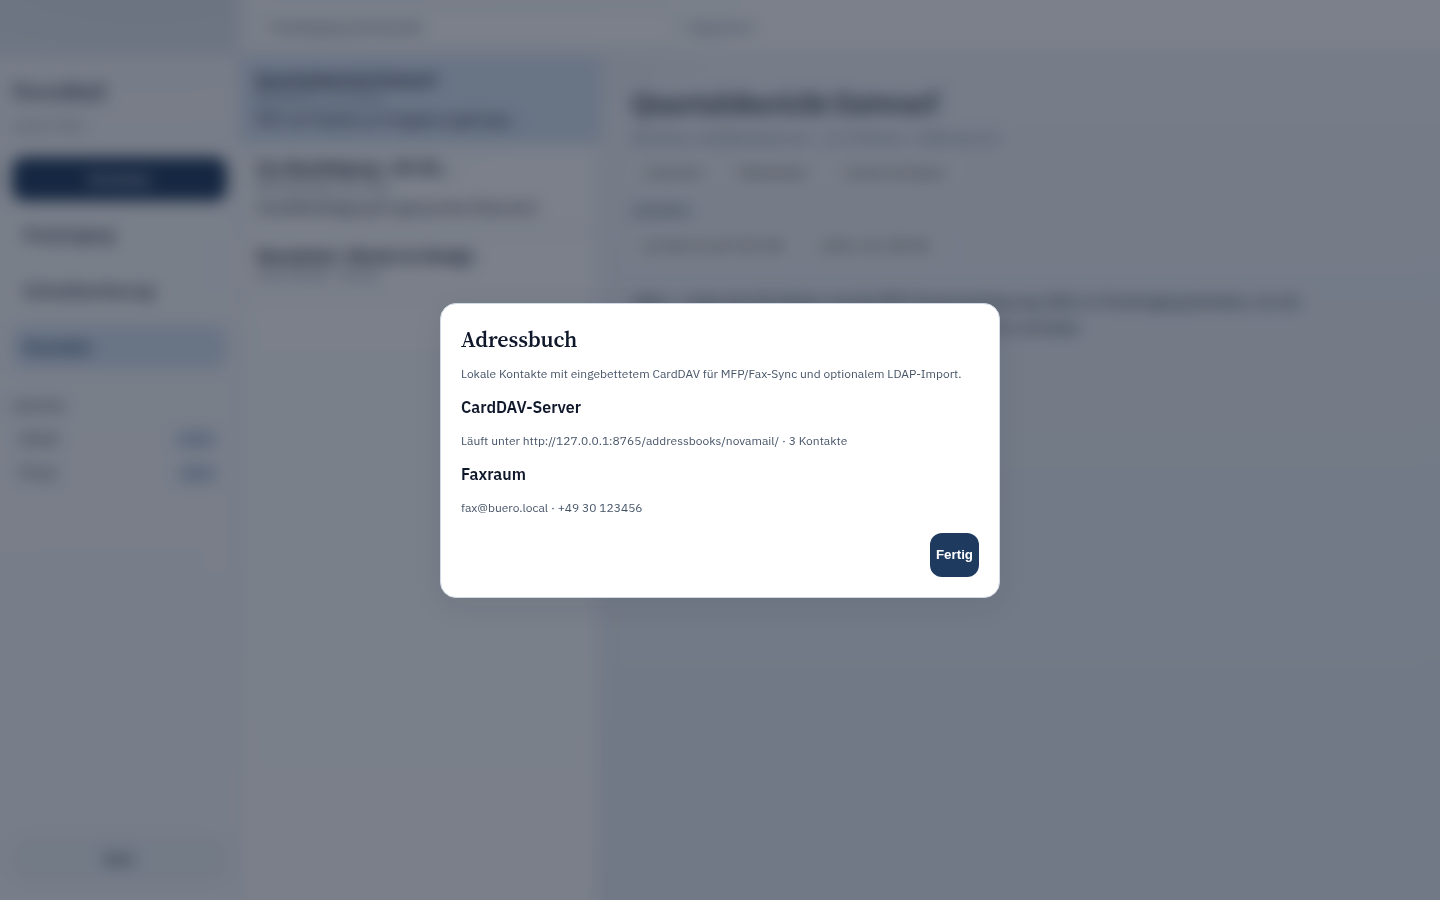
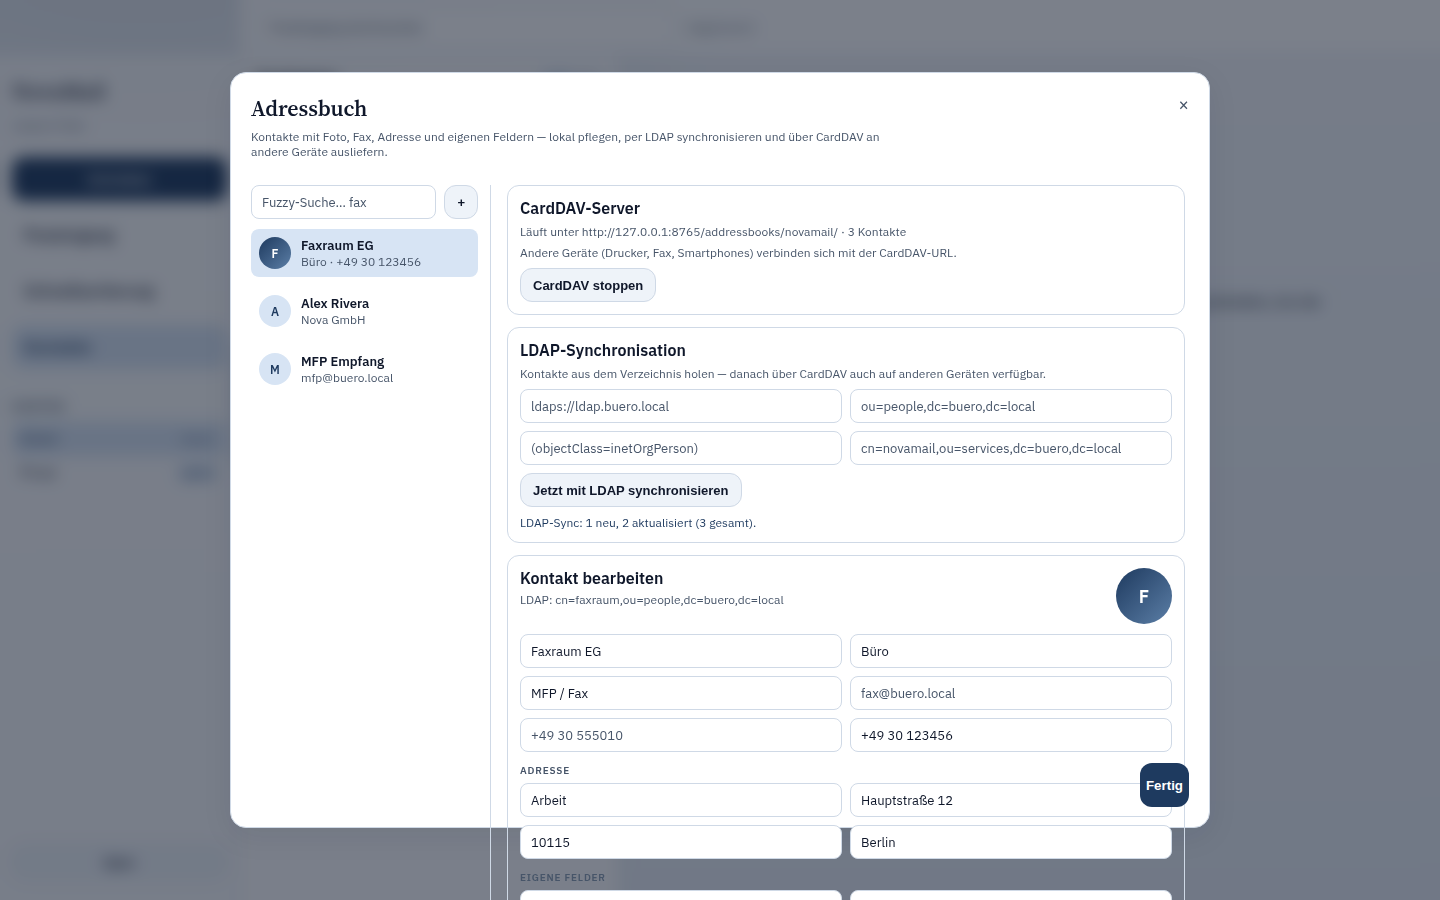
docs: refresh screenshots for threads, filters, and contacts
Update preview captures for threaded inbox with filter/sort controls
and the expanded address book (fuzzy search, fax/address, LDAP+CardDAV).

diff --git a/docs/screenshots/preview.html b/docs/screenshots/preview.html
@@ -15,6 +15,7 @@
         --nova-bg: #f4f7fb;
         --nova-bg-accent: #e8eef6;
         --nova-surface: #ffffff;
+        --nova-surface-2: #eef3f9;
         --nova-ink: #0f172a;
         --nova-ink-muted: #475569;
         --nova-border: #cfd9e6;
@@ -71,13 +72,63 @@
       }
       .main { flex: 1; display: flex; min-width: 0; }
       .list {
-        width: 360px; border-right: 1px solid var(--nova-border);
+        width: 380px; border-right: 1px solid var(--nova-border);
         background: color-mix(in srgb, var(--nova-surface) 88%, transparent);
+        display: flex; flex-direction: column;
       }
+      .list-head {
+        padding: 12px 16px;
+        border-bottom: 1px solid var(--nova-border);
+        display: flex; flex-direction: column; gap: 10px;
+      }
+      .list-title { display: flex; justify-content: space-between; align-items: center; }
+      .chips { display: flex; flex-wrap: wrap; gap: 6px; }
+      .fchip {
+        border: 1px solid var(--nova-border);
+        border-radius: var(--nova-radius-sm);
+        padding: 4px 8px; font-size: 12px; font-weight: 500;
+        color: var(--nova-ink-muted); background: var(--nova-surface);
+      }
+      .fchip.on {
+        border-color: var(--nova-accent);
+        background: var(--nova-accent-soft);
+        color: var(--nova-accent);
+      }
+      .filters {
+        display: grid; grid-template-columns: 1fr 1fr; gap: 8px;
+      }
+      .filters label { display: grid; gap: 4px; font-size: 10px; font-weight: 600; letter-spacing: .08em; text-transform: uppercase; color: var(--nova-ink-muted); }
+      .filters select {
+        height: 30px; border-radius: var(--nova-radius-sm);
+        border: 1px solid var(--nova-border); background: var(--nova-surface); padding: 0 8px; font-size: 12px;
+      }
+      .view-toggle {
+        display: flex; gap: 2px; padding: 2px; border-radius: var(--nova-radius-sm);
+        background: var(--nova-surface-2);
+      }
+      .view-toggle span {
+        width: 28px; height: 28px; display: grid; place-items: center;
+        border-radius: 6px; font-size: 12px; color: var(--nova-ink-muted);
+      }
+      .view-toggle span.on { background: var(--nova-accent-soft); color: var(--nova-accent); font-weight: 700; }
       .list-item {
-        padding: 14px 16px; border-bottom: 1px solid var(--nova-border);
+        padding: 12px 14px; border-bottom: 1px solid var(--nova-border);
+      }
+      .list-item.thread {
+        background: color-mix(in srgb, var(--nova-accent-soft) 35%, transparent);
+      }
+      .list-item.child {
+        padding-left: 32px;
+        border-left: 2px solid var(--nova-accent);
+        background: color-mix(in srgb, var(--nova-surface-2) 55%, transparent);
       }
       .list-item.active { background: var(--nova-accent-soft); }
+      .row { display: flex; align-items: center; gap: 6px; }
+      .count {
+        margin-left: auto; font-size: 10px; font-weight: 600;
+        background: var(--nova-surface-2); color: var(--nova-ink-muted);
+        border-radius: 999px; padding: 2px 7px;
+      }
       .reading { flex: 1; padding: 28px 32px; }
       .h2 { font-family: var(--nova-font-display); font-size: 28px; margin: 0 0 8px; }
       .chip {
@@ -92,13 +143,55 @@
       }
       .overlay.show { display: flex; }
       .card {
-        width: min(720px, 100%);
+        width: min(980px, 100%);
         background: var(--nova-surface);
         border: 1px solid var(--nova-border);
         border-radius: var(--nova-radius-lg);
         box-shadow: var(--nova-shadow);
         padding: 20px;
       }
+      .contacts-grid {
+        display: grid;
+        grid-template-columns: 240px minmax(0, 1fr);
+        gap: 16px;
+        margin-top: 14px;
+        max-height: 560px;
+      }
+      .contacts-side {
+        border-right: 1px solid var(--nova-border);
+        padding-right: 12px;
+        display: flex; flex-direction: column; gap: 10px;
+      }
+      .contact-row {
+        display: flex; gap: 10px; align-items: center;
+        padding: 8px; border-radius: var(--nova-radius-sm);
+      }
+      .contact-row.active { background: var(--nova-accent-soft); }
+      .avatar {
+        width: 32px; height: 32px; border-radius: 999px;
+        background: var(--nova-accent-soft); color: var(--nova-accent);
+        display: grid; place-items: center; font-size: 12px; font-weight: 700; flex-shrink: 0;
+      }
+      .avatar.photo {
+        background:
+          linear-gradient(135deg, #1e3a5f, #5b7ea6);
+        color: #fff;
+      }
+      .panel {
+        border: 1px solid var(--nova-border);
+        border-radius: var(--nova-radius-md);
+        padding: 12px;
+        margin-bottom: 12px;
+      }
+      .form-grid {
+        display: grid; grid-template-columns: 1fr 1fr; gap: 8px;
+      }
+      .field {
+        height: 34px; border: 1px solid var(--nova-border); border-radius: var(--nova-radius-sm);
+        padding: 0 10px; background: var(--nova-surface); color: var(--nova-ink); font-size: 13px;
+        display: flex; align-items: center;
+      }
+      .field.muted { color: var(--nova-ink-muted); }
       .triage-shell {
         width: min(760px, 100%);
         overflow: hidden;
@@ -158,8 +251,9 @@
       }
       .btn.secondary .kbd { border-color: var(--nova-border); background: var(--nova-surface); color: var(--nova-ink-muted); }
       .actions { display: flex; gap: 8px; justify-content: flex-end; margin-top: 18px; flex-wrap: wrap; }
-      .btn.secondary { background: var(--nova-surface-2, #eef3f9); color: var(--nova-ink); border: 1px solid var(--nova-border); padding: 0 14px; }
+      .btn.secondary { background: var(--nova-surface-2); color: var(--nova-ink); border: 1px solid var(--nova-border); padding: 0 14px; height: 36px; }
       .btn.danger { background: var(--nova-danger); }
+      .btn.sm { height: 34px; padding: 0 12px; font-size: 13px; }
       .topbar {
         position: absolute; left: 240px; right: 0; top: 0; height: 56px;
         border-bottom: 1px solid var(--nova-border);
@@ -171,7 +265,8 @@
         border: 1px solid var(--nova-border); padding: 0 12px; background: var(--nova-surface);
         color: var(--nova-ink-muted);
       }
-      .account { display: flex; justify-content: space-between; padding: 8px; font-size: 14px; }
+      .account { display: flex; justify-content: space-between; padding: 8px; font-size: 14px; border-radius: var(--nova-radius-sm); }
+      .account.active { background: var(--nova-accent-soft); color: var(--nova-accent); }
       .badge { font-size: 11px; background: var(--nova-accent-soft); color: var(--nova-accent); padding: 2px 8px; border-radius: 999px; }
     </style>
   </head>
@@ -192,7 +287,7 @@
         <div class="nav" id="nav-contacts">Kontakte</div>
         <div style="margin-top:18px">
           <p class="muted" style="margin:0 0 8px; text-transform:uppercase; letter-spacing:.08em; font-weight:600">Konten</p>
-          <div class="account"><span>Arbeit</span><span class="badge">icloud</span></div>
+          <div class="account active"><span>Arbeit</span><span class="badge">icloud</span></div>
           <div class="account"><span>Privat</span><span class="badge">gmail</span></div>
         </div>
         <div style="margin-top:auto">
@@ -201,19 +296,69 @@
       </aside>
       <div class="main">
         <div class="list">
-          <div class="list-item active">
-            <strong>Quartalsbericht Entwurf</strong>
-            <div class="muted">Alex Rivera · vor 12 Min.</div>
-            <div style="margin-top:6px;font-size:14px">PDF und Tabelle zur Freigabe angehängt…</div>
+          <div class="list-head">
+            <div class="list-title">
+              <div>
+                <strong style="font-size:14px">Posteingang</strong>
+                <div class="muted">8 Unterhaltungen</div>
+              </div>
+              <div class="view-toggle" title="Verlauf / Liste">
+                <span class="on">≡</span>
+                <span>☰</span>
+              </div>
+            </div>
+            <div class="chips">
+              <span class="fchip on">Ungelesen</span>
+              <span class="fchip">Favoriten</span>
+              <span class="fchip on">Mit Anhang</span>
+            </div>
+            <div class="filters">
+              <label>Postfach
+                <select><option>INBOX</option><option>Alle Postfächer</option></select>
+              </label>
+              <label>Konto
+                <select><option>Arbeit</option><option>Alle Konten</option></select>
+              </label>
+              <label>Sortieren
+                <select><option>Datum</option><option>Betreff</option><option>Absender</option></select>
+              </label>
+              <label>Reihenfolge
+                <select><option>Neueste zuerst</option><option>Älteste zuerst</option></select>
+              </label>
+            </div>
           </div>
-          <div class="list-item">
-            <strong>Fax-Bestätigung: +49 30…</strong>
-            <div class="muted">MFP Empfang · vor 1 Std.</div>
-            <div style="margin-top:6px;font-size:14px">Zustellbestätigung für gescanntes Dokument</div>
+          <div class="list-item thread">
+            <div class="row">
+              <span class="muted">▾</span>
+              <strong style="font-size:14px">Alex Rivera</strong>
+              <span class="count">3</span>
+              <span class="muted" style="margin-left:4px">12 Min.</span>
+            </div>
+            <div style="padding-left:18px;margin-top:4px;font-size:14px">Quartalsbericht Entwurf · <span style="color:var(--nova-accent);font-size:11px;font-weight:600">2 neu</span></div>
+            <div class="muted" style="padding-left:18px;margin-top:2px">PDF und Tabelle zur Freigabe angehängt…</div>
           </div>
-          <div class="list-item">
-            <strong>Newsletter: Woche im Design</strong>
-            <div class="muted">Inbox Weekly · Gestern</div>
+          <div class="list-item child active">
+            <div class="row">
+              <strong style="font-size:13px">Alex Rivera</strong>
+              <span class="muted" style="margin-left:auto">12 Min.</span>
+            </div>
+            <div class="muted" style="margin-top:2px;font-size:13px">PDF und Tabelle zur Freigabe angehängt… 📎</div>
+          </div>
+          <div class="list-item child">
+            <div class="row">
+              <span style="font-size:13px;font-weight:500">Alex Rivera</span>
+              <span class="muted" style="margin-left:auto">gestern</span>
+            </div>
+            <div class="muted" style="margin-top:2px;font-size:13px">Erste Fassung der Zahlen…</div>
+          </div>
+          <div class="list-item thread">
+            <div class="row">
+              <span class="muted">▸</span>
+              <strong style="font-size:14px">MFP Empfang</strong>
+              <span class="count">1</span>
+              <span class="muted" style="margin-left:4px">1 Std.</span>
+            </div>
+            <div style="padding-left:18px;margin-top:4px;font-size:14px">Fax-Bestätigung: +49 30… 📎</div>
           </div>
         </div>
         <article class="reading">
@@ -231,7 +376,7 @@
           </div>
           <p style="margin-top:28px; max-width:720px; line-height:1.7; font-size:15px">
             Hallo — anbei die Q3-Zahlen und die PDF-Zusammenfassung. Bitte im Posteingang
-            behalten, bis die Freigabe da ist. Mit der Schnellsortierung (Taste T) geht’s schneller.
+            behalten, bis die Freigabe da ist. Verläufe, Filter und Sortierung findest du links in der Liste.
           </p>
         </article>
       </div>
@@ -278,13 +423,113 @@
     </div>
 
     <div class="overlay" id="contacts">
-      <div class="card" style="max-width:560px">
-        <h2 class="h2" style="font-size:22px">Adressbuch</h2>
-        <p class="muted">Lokale Kontakte mit eingebettetem CardDAV für MFP/Fax-Sync und optionalem LDAP-Import.</p>
-        <p style="margin-top:16px"><strong>CardDAV-Server</strong></p>
-        <p class="muted">Läuft unter http://127.0.0.1:8765/addressbooks/novamail/ · 3 Kontakte</p>
-        <p style="margin-top:16px"><strong>Faxraum</strong></p>
-        <p class="muted">fax@buero.local · +49 30 123456</p>
+      <div class="card">
+        <div style="display:flex;justify-content:space-between;gap:16px;align-items:flex-start">
+          <div>
+            <h2 class="h2" style="font-size:22px;margin:0">Adressbuch</h2>
+            <p class="muted" style="margin-top:6px;max-width:640px">
+              Kontakte mit Foto, Fax, Adresse und eigenen Feldern — lokal pflegen, per LDAP synchronisieren
+              und über CardDAV an andere Geräte ausliefern.
+            </p>
+          </div>
+          <span class="muted" style="font-size:18px">×</span>
+        </div>
+
+        <div class="contacts-grid">
+          <aside class="contacts-side">
+            <div style="display:flex;gap:8px">
+              <div class="field muted" style="flex:1">Fuzzy-Suche… fax</div>
+              <button class="btn secondary sm">+</button>
+            </div>
+            <div class="contact-row active">
+              <div class="avatar photo">F</div>
+              <div style="min-width:0">
+                <div style="font-weight:600;font-size:13px">Faxraum EG</div>
+                <div class="muted" style="truncate">Büro · +49 30 123456</div>
+              </div>
+            </div>
+            <div class="contact-row">
+              <div class="avatar">A</div>
+              <div style="min-width:0">
+                <div style="font-weight:600;font-size:13px">Alex Rivera</div>
+                <div class="muted">Nova GmbH</div>
+              </div>
+            </div>
+            <div class="contact-row">
+              <div class="avatar">M</div>
+              <div style="min-width:0">
+                <div style="font-weight:600;font-size:13px">MFP Empfang</div>
+                <div class="muted">mfp@buero.local</div>
+              </div>
+            </div>
+          </aside>
+
+          <div style="overflow:auto;padding-right:4px">
+            <div class="panel">
+              <strong>CardDAV-Server</strong>
+              <p class="muted" style="margin:6px 0">
+                Läuft unter http://127.0.0.1:8765/addressbooks/novamail/ · 3 Kontakte
+              </p>
+              <p class="muted" style="margin:0 0 8px">
+                Andere Geräte (Drucker, Fax, Smartphones) verbinden sich mit der CardDAV-URL.
+              </p>
+              <button class="btn secondary sm">CardDAV stoppen</button>
+            </div>
+
+            <div class="panel">
+              <strong>LDAP-Synchronisation</strong>
+              <p class="muted" style="margin:6px 0 8px">
+                Kontakte aus dem Verzeichnis holen — danach über CardDAV auch auf anderen Geräten verfügbar.
+              </p>
+              <div class="form-grid">
+                <div class="field muted">ldaps://ldap.buero.local</div>
+                <div class="field muted">ou=people,dc=buero,dc=local</div>
+                <div class="field muted">(objectClass=inetOrgPerson)</div>
+                <div class="field muted">cn=novamail,ou=services,dc=buero,dc=local</div>
+              </div>
+              <button class="btn secondary sm" style="margin-top:8px">Jetzt mit LDAP synchronisieren</button>
+              <p style="margin:8px 0 0;color:var(--nova-accent);font-size:12px">
+                LDAP-Sync: 1 neu, 2 aktualisiert (3 gesamt).
+              </p>
+            </div>
+
+            <div class="panel">
+              <div style="display:flex;justify-content:space-between;gap:12px;align-items:flex-start">
+                <div>
+                  <strong>Kontakt bearbeiten</strong>
+                  <p class="muted" style="margin:4px 0 0">LDAP: cn=faxraum,ou=people,dc=buero,dc=local</p>
+                </div>
+                <div class="avatar photo" style="width:56px;height:56px;font-size:18px">F</div>
+              </div>
+              <div class="form-grid" style="margin-top:10px">
+                <div class="field">Faxraum EG</div>
+                <div class="field">Büro</div>
+                <div class="field">MFP / Fax</div>
+                <div class="field muted">fax@buero.local</div>
+                <div class="field muted">+49 30 555010</div>
+                <div class="field">+49 30 123456</div>
+              </div>
+              <p class="muted" style="margin:12px 0 6px;text-transform:uppercase;letter-spacing:.08em;font-weight:600;font-size:10px">Adresse</p>
+              <div class="form-grid">
+                <div class="field">Arbeit</div>
+                <div class="field">Hauptstraße 12</div>
+                <div class="field">10115</div>
+                <div class="field">Berlin</div>
+              </div>
+              <p class="muted" style="margin:12px 0 6px;text-transform:uppercase;letter-spacing:.08em;font-weight:600;font-size:10px">Eigene Felder</p>
+              <div class="form-grid">
+                <div class="field">Raum</div>
+                <div class="field">EG-14</div>
+              </div>
+              <div class="field muted" style="margin-top:8px">Notizen: Für Scan-to-Fax und Drucker-Adressbuch</div>
+              <div style="margin-top:10px;display:flex;gap:8px">
+                <button class="btn sm">Kontakt speichern</button>
+                <button class="btn secondary sm">Löschen</button>
+              </div>
+            </div>
+          </div>
+        </div>
+
         <div class="actions"><button class="btn">Fertig</button></div>
       </div>
     </div>

diff --git a/README.md b/README.md
@@ -25,11 +25,11 @@ NovaMail is a local-first desktop client built with **Tauri 2**, **Rust**, **Rea
 
 ## Screenshots
 
-![Unified inbox with attachments](docs/screenshots/inbox.png)
+![Threaded inbox with filters and sort](docs/screenshots/inbox.png)
 
 ![Quick Sort triage](docs/screenshots/quick-sort.png)
 
-![Address book + CardDAV](docs/screenshots/contacts-carddav.png)
+![Address book with LDAP sync and CardDAV](docs/screenshots/contacts-carddav.png)
 
 More captures: [`docs/screenshots/`](docs/screenshots/).
 

diff --git a/docs/screenshots/README.md b/docs/screenshots/README.md
@@ -4,9 +4,9 @@ Beispiel-UI im aktuellen Design (Dunkelblau/Weiß, Deutsch).
 
 | Datei | Ansicht |
 |------|---------|
-| `inbox.png` | Posteingang mit Anhängen |
+| `inbox.png` | Posteingang mit Verlauf/Baum, Filtern und Sortierung |
 | `quick-sort.png` | Schnellsortierung (Behalten / Löschen / Vorschau) |
-| `contacts-carddav.png` | Adressbuch + CardDAV |
+| `contacts-carddav.png` | Adressbuch mit Fuzzy-Suche, Foto/Fax/Adresse, LDAP-Sync + CardDAV |
 
 Neu erzeugen:
 
